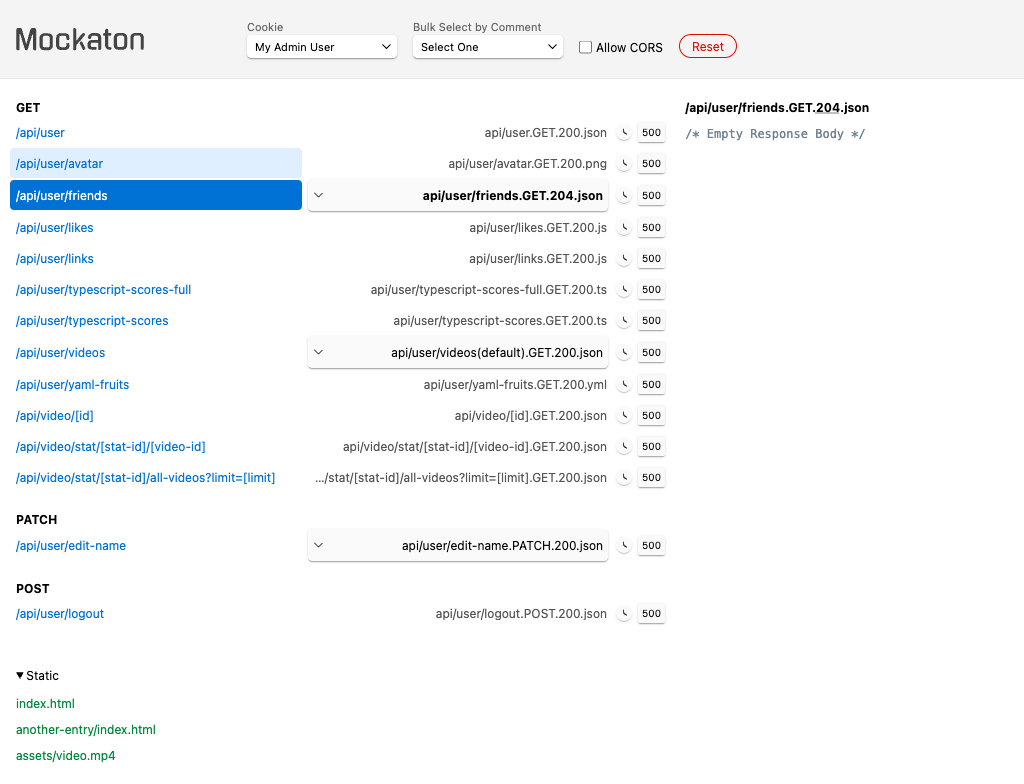
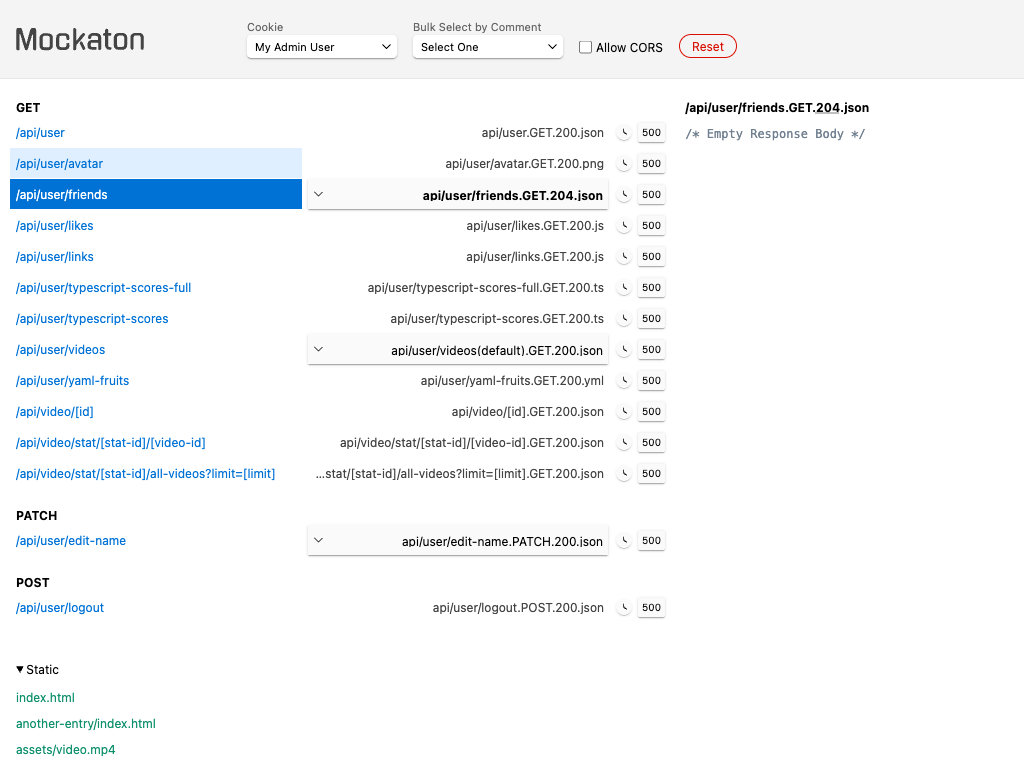
8.1.7 tune css

diff --git a/src/Dashboard.css b/src/Dashboard.css
@@ -6,12 +6,12 @@
 	:root {
 		--color4xxBackground: #ffedd1;
 		--colorAccent: #0072d6;
-		--colorAccentAlt: #01873b;
+		--colorAccentAlt: #0e906c;
 		--colorBackground: #fff;
 		--colorHeaderBackground: #f4f4f4;
 		--colorComboBoxBackground: #fafafa;
 		--colorComboBoxHeaderBackground: #fff;
-		--colorDisabled: #555;
+		--colorDisabled: #444;
 		--colorHover: #dfefff;
 		--colorLabel: #666;
 		--colorLightRed: #ffe4ee;
@@ -190,7 +190,7 @@ main {
 	display: inline-block;
 	width: 280px;
 	padding: 8px 6px;
-	border-radius: 4px;
+	border-radius: 0;
 	color: var(--colorAccent);
 	text-decoration: none;
 
@@ -205,10 +205,11 @@ main {
 
 .MockSelector {
 	width: 300px;
+	height: 30px;
 	padding: 8px 1px;
 	border: 0;
 	border-left: 3px solid transparent;
-	border-radius: 4px;
+	border-radius: 0;
 	text-align: right;
 	direction: rtl;
 	text-overflow: ellipsis;
@@ -218,6 +219,7 @@ main {
 		background: var(--color4xxBackground);
 	}
 	&:disabled {
+		padding-right: 4px;
 		appearance: none;
 		background: transparent;
 		cursor: default;
